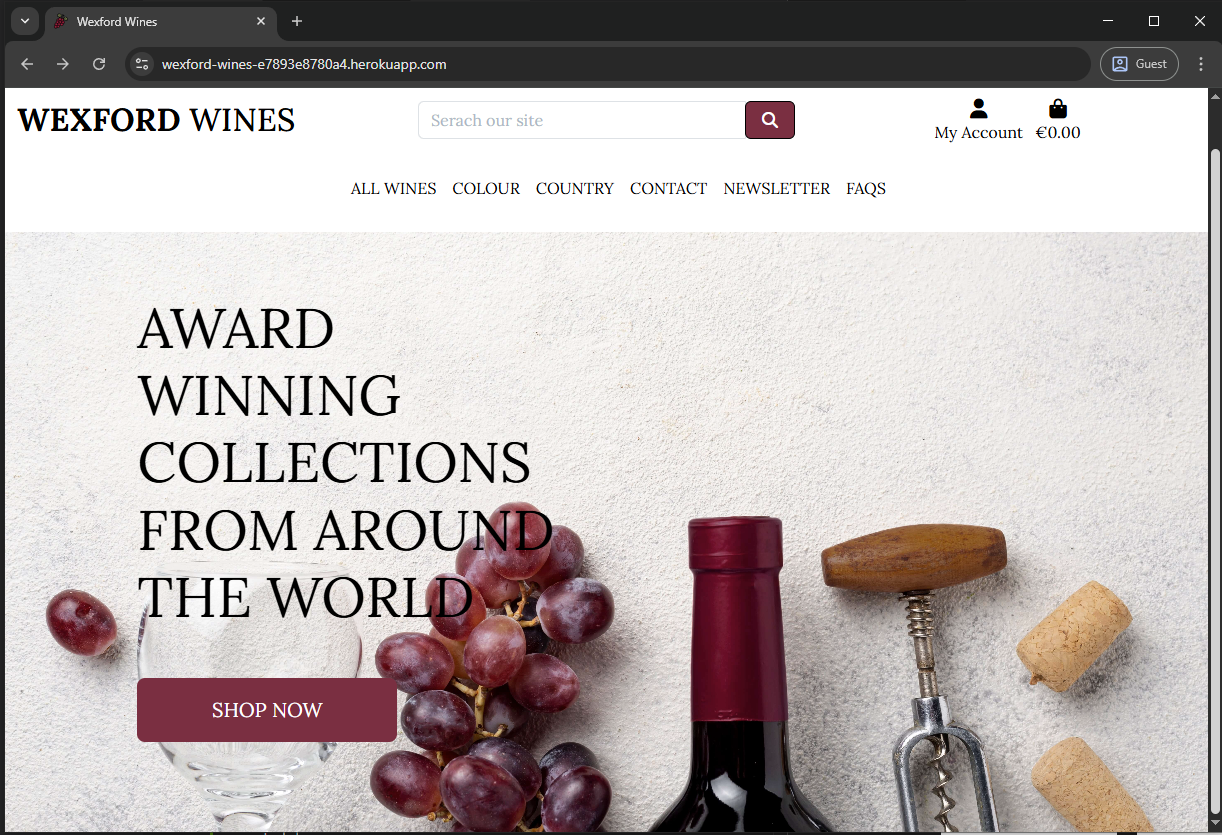
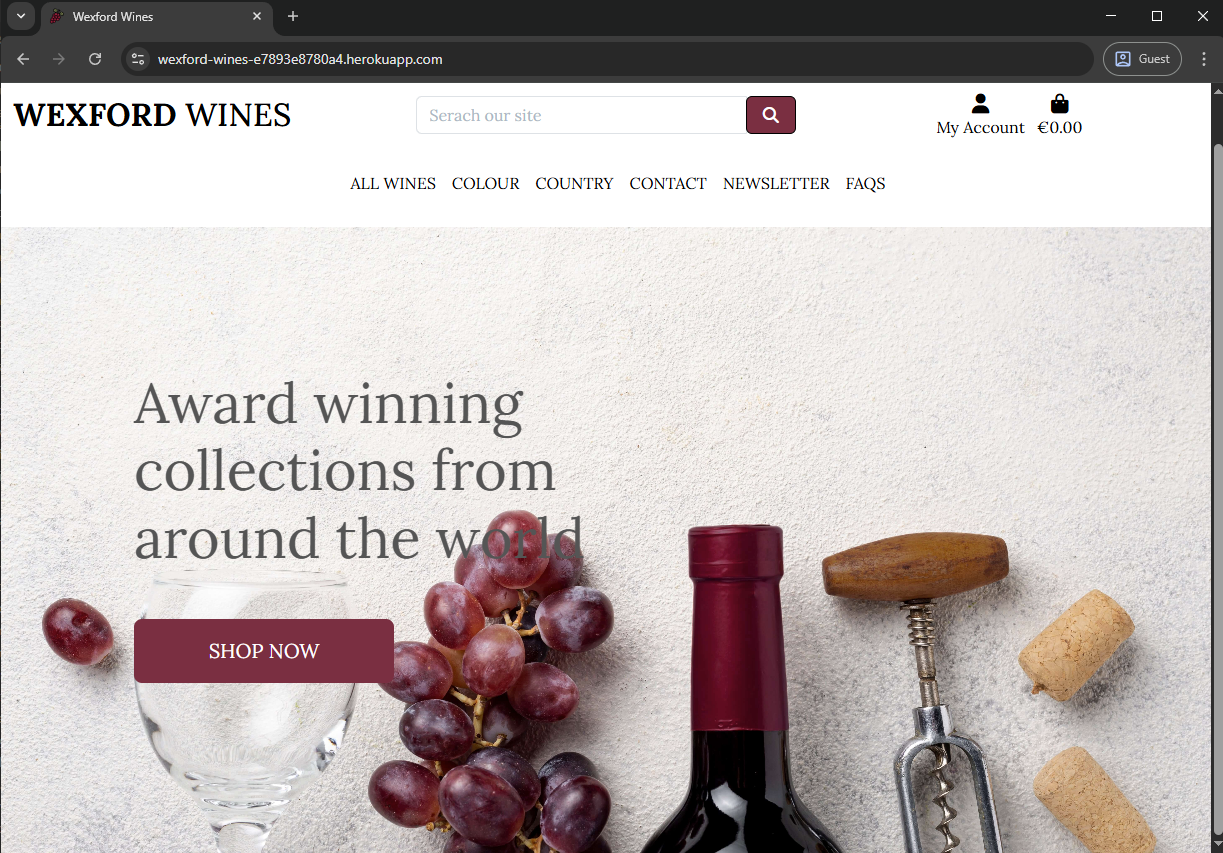
Update responsive images, fix home button display on tablet

Changed region(s): [[0.0, 0.0, 1.0, 1.0], [0.653, 0.5605, 0.6841, 0.5916], [0.5908, 0.5293, 0.6219, 0.5605]]

diff --git a/templates/includes/main-nav.html b/templates/includes/main-nav.html
@@ -1,8 +1,8 @@
 <div class="collapse navbar-collapse" id="main-nav">
     <ul class="navbar-nav w-auto mx-auto">
-        <li class="nav-item d-block d-md-none">
+        <li class="nav-item d-block d-lg-none">
             <a class="logo-font font-weight-bold nav-link text-black mr-5" id="homepage-link" href="{% url 'homepage' %}" role="button" aria-expanded="false" aria-haspopup="true">
-              Homepage
+              Home
             </a>
         </li>
         <li class="nav-item">
